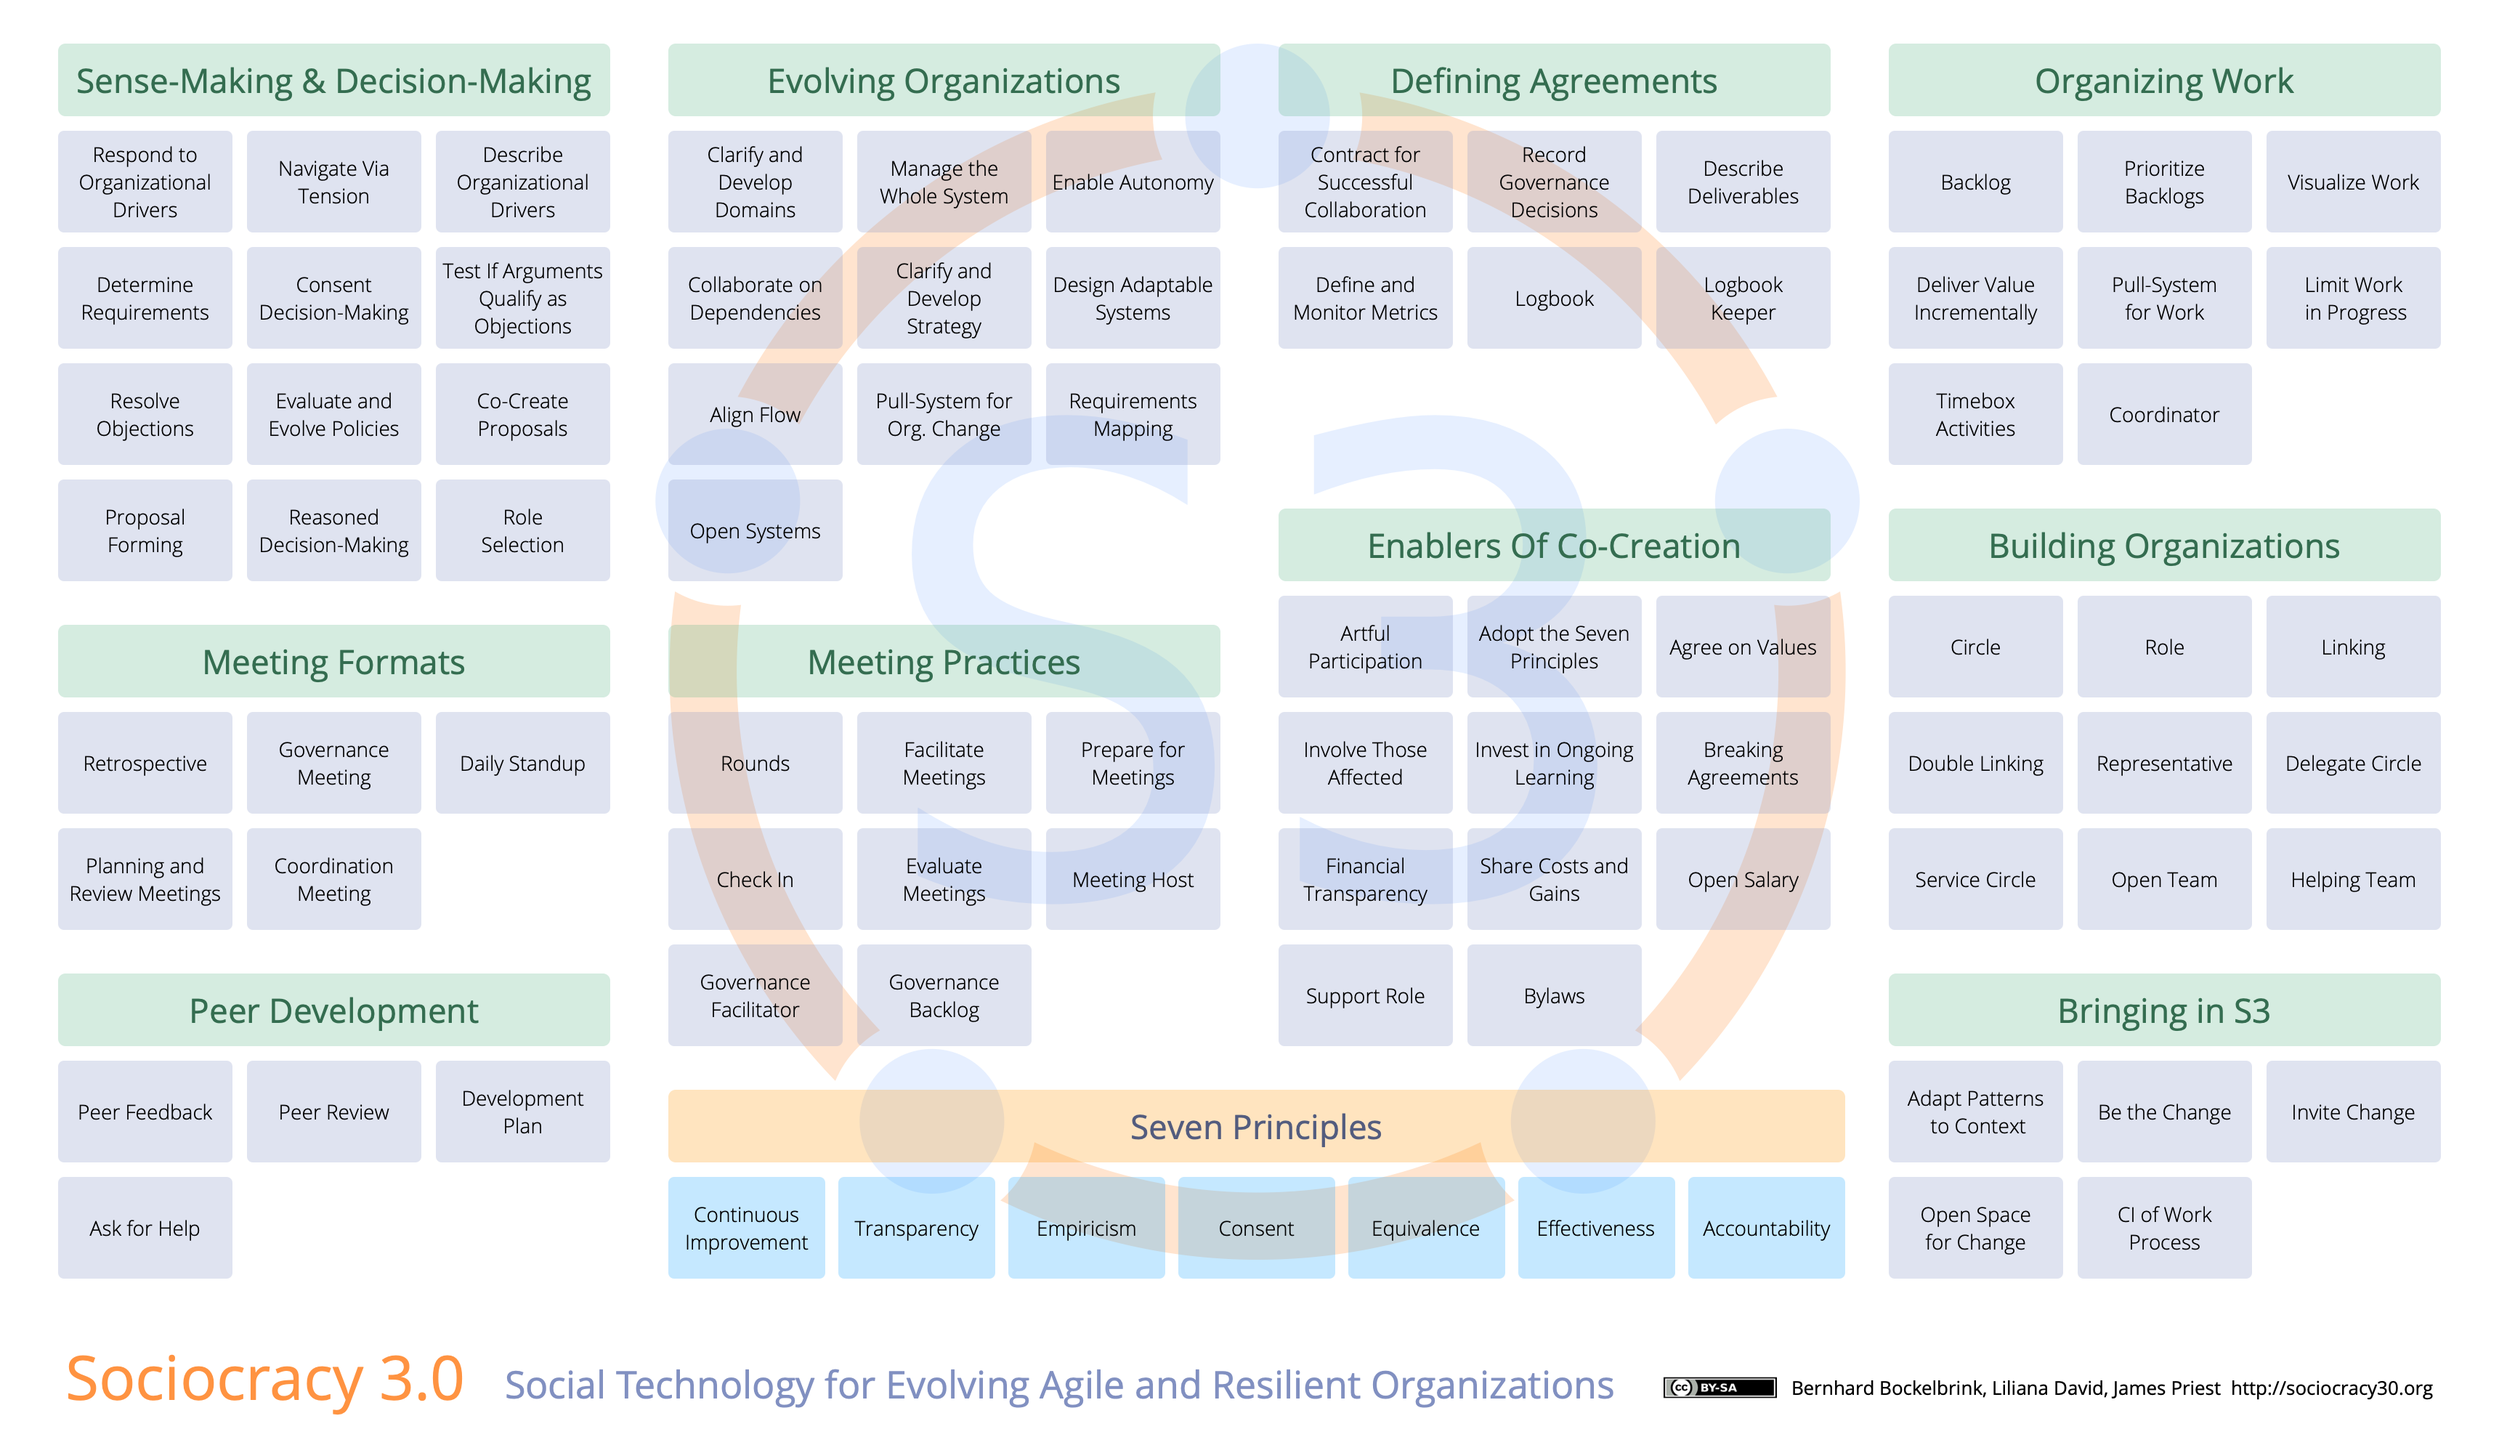
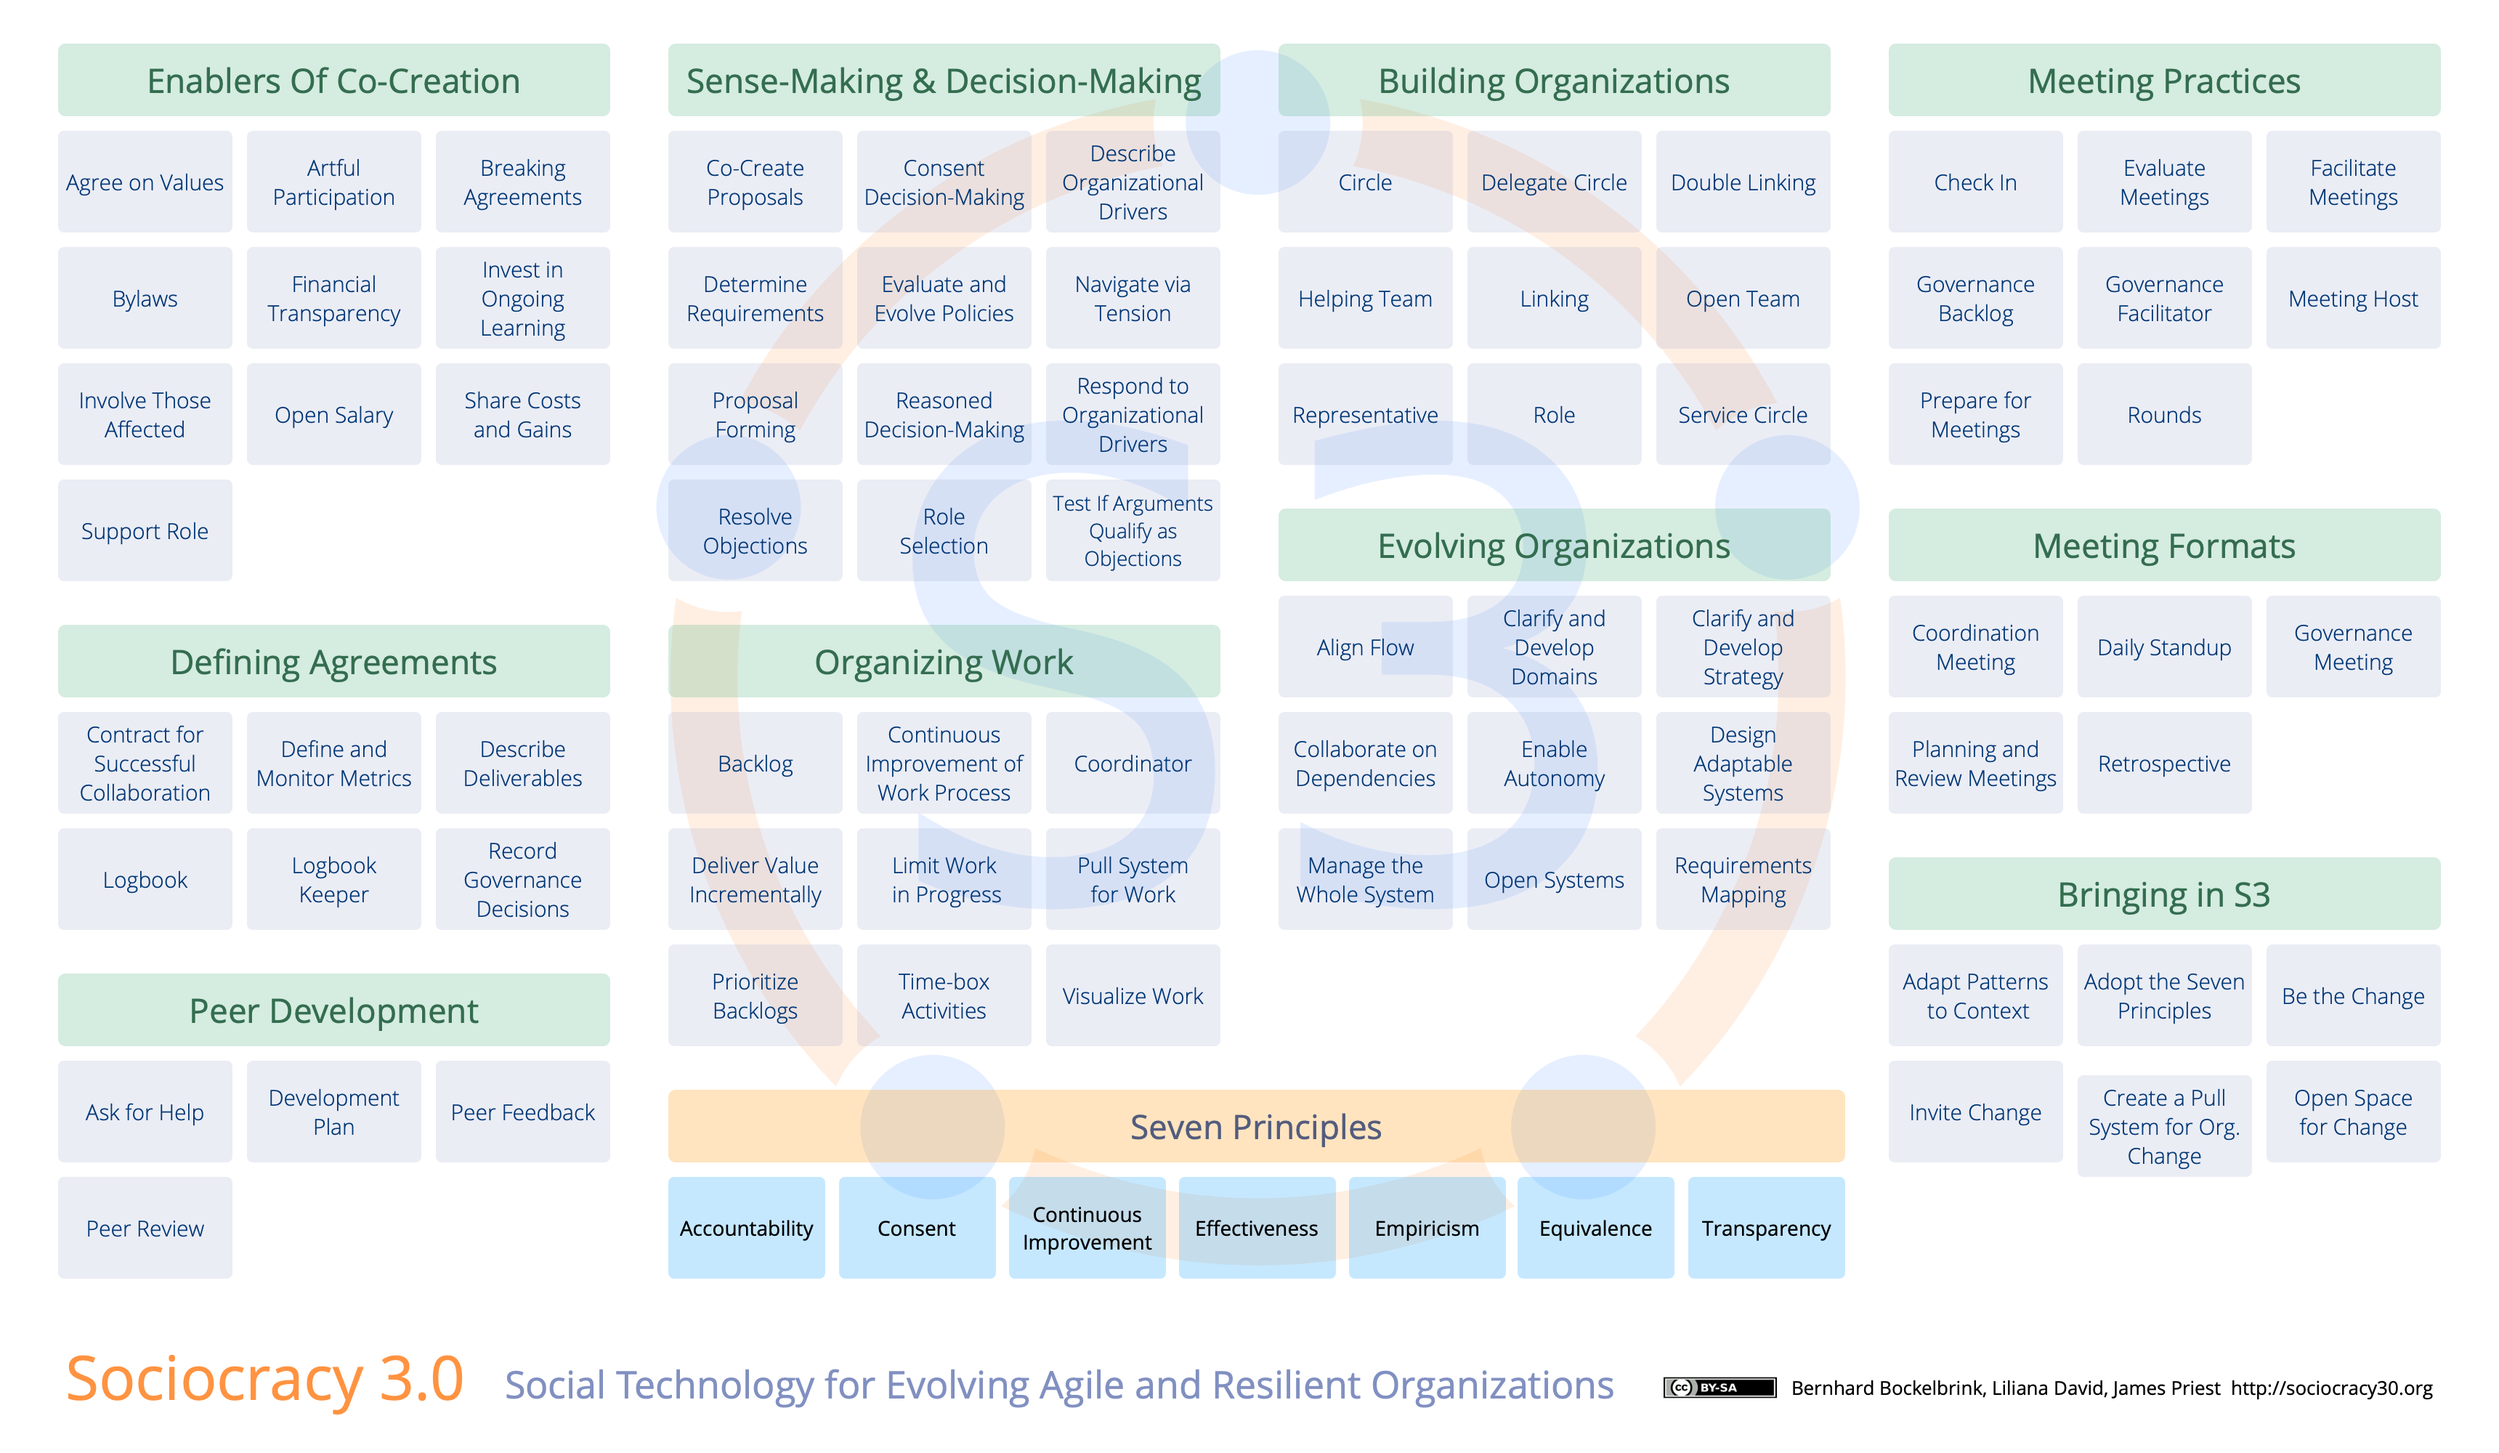
updated pattern map

diff --git a/templates/website/pattern-map.html b/templates/website/pattern-map.html
@@ -1,5 +1,5 @@
-
 <map name="GraffleExport">
+	<area shape=rect coords="590,650,710,720" href="https://${microsite_cname}/https://patterns.sociocracy30.org/time-box-activities.html">
 	<area shape=rect coords="811,810,919,880" href="https://${microsite_cname}/principle-effectiveness.html">
 	<area shape=rect coords="694,810,802,880" href="https://${microsite_cname}/principle-continuous-improvement.html">
 	<area shape=rect coords="577,810,685,880" href="https://${microsite_cname}/principle-consent.html">
@@ -24,7 +24,6 @@
 	<area shape=rect coords="590,490,710,560" href="https://${microsite_cname}/continuous-improvement-of-work-process.html">
 	<area shape=rect coords="590,570,710,640" href="https://${microsite_cname}/limit-work-in-progress.html">
 	<area shape=rect coords="460,570,580,640" href="https://${microsite_cname}/deliver-value-incrementally.html">
-	<area shape=rect coords="590,650,710,720" href="https://${microsite_cname}/timebox-activities.html">
 	<area shape=rect coords="720,490,840,560" href="https://${microsite_cname}/coordinator.html">
 	<area shape=rect coords="720,570,840,640" href="https://${microsite_cname}/pull-system-for-work.html">
 	<area shape=rect coords="460,650,580,720" href="https://${microsite_cname}/prioritize-backlogs.html">
@@ -39,8 +38,8 @@
 	<area shape=rect coords="40,330,160,400" href="https://${microsite_cname}/support-role.html">
 	<area shape=rect coords="300,90,420,160" href="https://${microsite_cname}/breaking-agreements.html">
 	<area shape=rect coords="40,170,160,240" href="https://${microsite_cname}/bylaws.html">
-	<area shape=rect coords="170,90,290,160" href="https://${microsite_cname}/agree-on-values.html">
-	<area shape=rect coords="40,90,160,160" href="https://${microsite_cname}/artful-participation.html">
+	<area shape=rect coords="40,90,160,160" href="https://${microsite_cname}/agree-on-values.html">
+	<area shape=rect coords="170,90,290,160" href="https://${microsite_cname}/artful-participation.html">
 	<area shape=rect coords="40,30,420,80" href="https://${microsite_cname}/enablers-of-co-creation.html">
 	<area shape=rect coords="590,90,710,160" href="https://${microsite_cname}/consent-decision-making.html">
 	<area shape=rect coords="460,30,840,80" href="https://${microsite_cname}/sense-making-and-decision-making.html">
